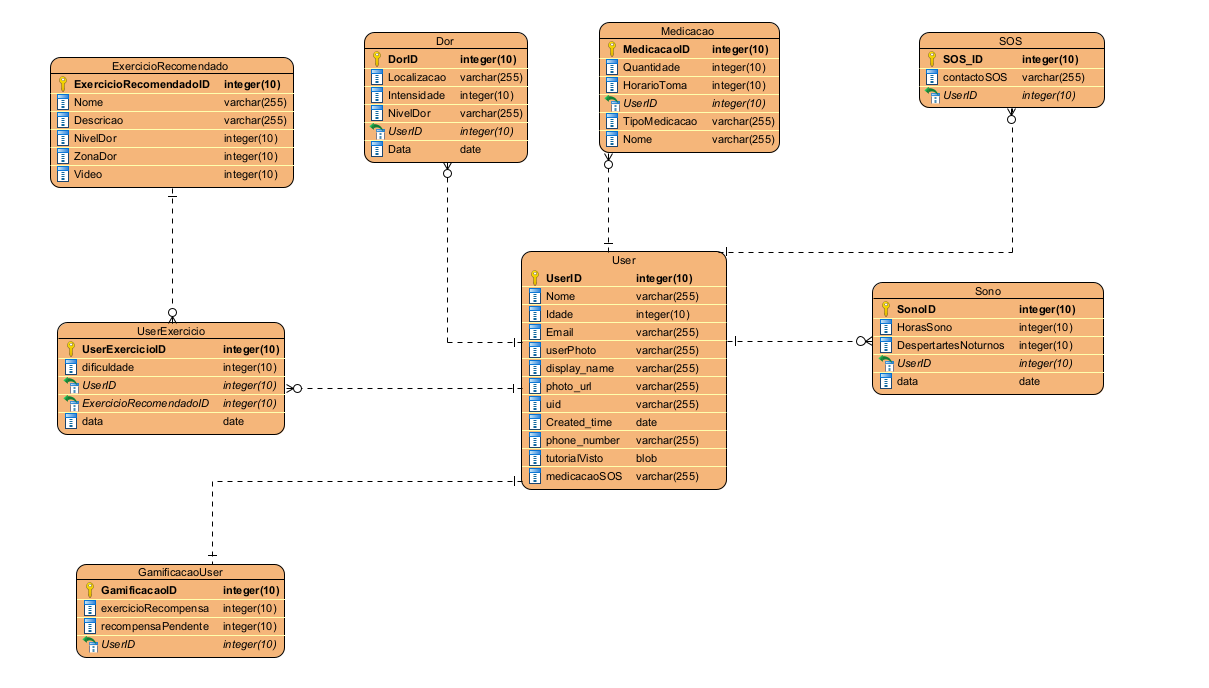
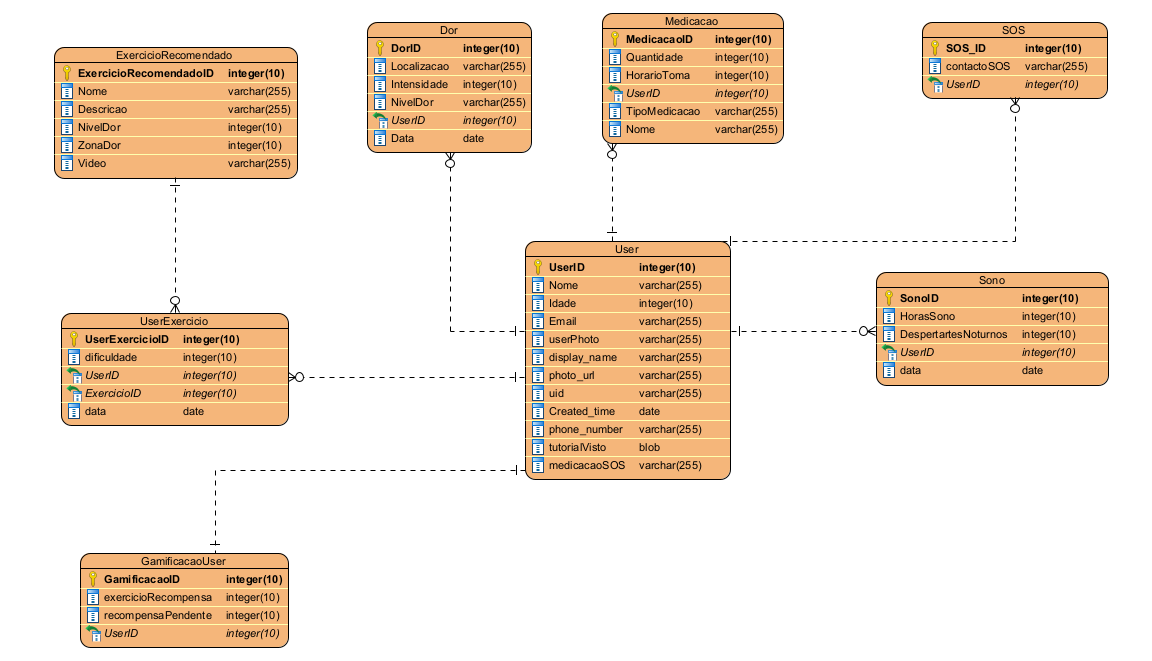
Fix some problems with cloud connection and UI problems

diff --git a/components/charts.py b/components/charts.py
@@ -21,11 +21,24 @@ def show_sono_chart(user_doc_ref):
 
     st.dataframe(sono_df, use_container_width=True)
 
-    fig = px.scatter(
+    if "Horas de Sono" not in sono_df.columns or "Despertares Noturnos" not in sono_df.columns:
+        st.info("Os campos necessários para gerar o gráfico de sono não existem nos dados.")
+        return
+
+    sono_df["Horas de Sono"] = pd.to_numeric(sono_df["Horas de Sono"], errors="coerce")
+    sono_df["Despertares Noturnos"] = pd.to_numeric(sono_df["Despertares Noturnos"], errors="coerce")
+
+    sono_df = sono_df.dropna(subset=["Horas de Sono", "Despertares Noturnos"])
+
+    if sono_df.empty:
+        st.info("Não existem valores numéricos suficientes para gerar o gráfico de sono.")
+        return
+
+    fig = px.line(
         sono_df,
         x="Horas de Sono",
         y="Despertares Noturnos",
-        size="Despertares Noturnos",
+        markers=True,
         title="Relação entre horas de sono e despertares noturnos"
     )
 
@@ -38,7 +51,8 @@ def show_sono_chart(user_doc_ref):
     )
 
     fig.update_traces(
-        marker=dict(color="#8E7CC3", size=12)
+        line=dict(color="#BFA2DB", width=4),
+        marker=dict(color="#8E7CC3", size=10)
     )
 
     st.plotly_chart(fig, use_container_width=True)
@@ -50,33 +64,10 @@ def show_exercicio_chart(user_doc_ref):
     exercicio_df = to_dataframe(get_user_exercicios_by_user(user_doc_ref))
 
     if exercicio_df.empty:
-        st.info("Este paciente ainda não tem exercícios associados.")
+        st.info("Este paciente ainda não tem exercícios concluídos.")
         return
 
     st.dataframe(exercicio_df, use_container_width=True)
-
-    if "Dificuldade" not in exercicio_df.columns or "Qualidade de Execução" not in exercicio_df.columns:
-        st.info("Ainda não existem dados suficientes para gerar o gráfico de exercício.")
-        return
-
-    fig = px.bar(
-        exercicio_df,
-        x="Dificuldade",
-        y="Qualidade de Execução",
-        title="Qualidade de execução por dificuldade"
-    )
-
-    fig.update_layout(
-        xaxis_title="Dificuldade",
-        yaxis_title="Qualidade de execução",
-        plot_bgcolor="white",
-        paper_bgcolor="white",
-        font=dict(color="#111827")
-    )
-
-    fig.update_traces(marker_color="#BFA2DB")
-
-    st.plotly_chart(fig, use_container_width=True)
 
 
 def show_dor_chart(user_doc_ref):
@@ -89,6 +80,17 @@ def show_dor_chart(user_doc_ref):
         return
 
     st.dataframe(dor_df, use_container_width=True)
+
+    if "Localização" not in dor_df.columns or "Intensidade" not in dor_df.columns:
+        st.info("Os campos necessários para gerar o gráfico de dor não existem nos dados.")
+        return
+
+    dor_df["Intensidade"] = pd.to_numeric(dor_df["Intensidade"], errors="coerce")
+    dor_df = dor_df.dropna(subset=["Intensidade"])
+
+    if dor_df.empty:
+        st.info("Não existem valores numéricos suficientes para gerar o gráfico de dor.")
+        return
 
     fig = px.bar(
         dor_df,
@@ -137,8 +139,14 @@ def show_sono_dor_relation(sono_df, dor_df):
 
     relation_df = pd.DataFrame(
         {
-            "Horas de Sono": pd.to_numeric(sono_df["Horas de Sono"].head(min_len), errors="coerce"),
-            "Intensidade da Dor": pd.to_numeric(dor_df["Intensidade"].head(min_len), errors="coerce"),
+            "Horas de Sono": pd.to_numeric(
+                sono_df["Horas de Sono"].head(min_len),
+                errors="coerce"
+            ),
+            "Intensidade da Dor": pd.to_numeric(
+                dor_df["Intensidade"].head(min_len),
+                errors="coerce"
+            ),
         }
     ).dropna()
 
@@ -146,10 +154,11 @@ def show_sono_dor_relation(sono_df, dor_df):
         st.info("Não existem valores numéricos suficientes para gerar o gráfico.")
         return
 
-    fig = px.scatter(
+    fig = px.line(
         relation_df,
         x="Horas de Sono",
         y="Intensidade da Dor",
+        markers=True,
         title="Relação entre horas de sono e intensidade da dor"
     )
 
@@ -161,6 +170,9 @@ def show_sono_dor_relation(sono_df, dor_df):
         font=dict(color="#111827")
     )
 
-    fig.update_traces(marker=dict(color="#8E7CC3", size=10))
+    fig.update_traces(
+        line=dict(color="#BFA2DB", width=4),
+        marker=dict(color="#8E7CC3", size=10)
+    )
 
     st.plotly_chart(fig, use_container_width=True)

diff --git a/styles.py b/styles.py
@@ -47,6 +47,53 @@ def apply_styles():
                 margin-bottom: 28px;
             }
 
+            /* -------------------- CARDS DOS INDICADORES -------------------- */
+
+            .metric-card {
+                background-color: #FFFFFF;
+                border: 1px solid #E5E7EB;
+                border-radius: 18px;
+                padding: 22px 24px;
+                box-shadow: 0 8px 22px rgba(0, 0, 0, 0.04);
+                min-height: 115px;
+                display: flex;
+                flex-direction: column;
+                justify-content: center;
+            }
+
+            .metric-card p {
+                color: #6B7280;
+                font-size: 15px;
+                font-weight: 600;
+                margin: 0 0 12px 0;
+            }
+
+            .metric-card h2 {
+                color: #111827;
+                font-size: 34px;
+                font-weight: 800;
+                margin: 0;
+                line-height: 1.1;
+            }
+
+            .alert-card-red {
+                border: 2px solid #EF4444 !important;
+            }
+
+            .alert-card-red h2 {
+                color: #DC2626 !important;
+            }
+
+            .alert-card-green {
+                border: 2px solid #22C55E !important;
+            }
+
+            .alert-card-green h2 {
+                color: #16A34A !important;
+            }
+
+            /* -------------------- PATIENT CARD -------------------- */
+
             .patient-card {
                 background-color: #FFFFFF;
                 border: 1px solid #E5E7EB;
@@ -104,6 +151,8 @@ def apply_styles():
                 text-decoration: underline;
             }
 
+            /* -------------------- STATUS CARD -------------------- */
+
             .status-card {
                 background-color: #FFFFFF;
                 border: 1px solid #E5E7EB;
@@ -140,6 +189,8 @@ def apply_styles():
                 font-weight: 800;
             }
 
+            /* -------------------- ST.METRIC NATIVO -------------------- */
+
             [data-testid="stMetric"] {
                 background-color: #FFFFFF;
                 border: 1px solid #E5E7EB;
@@ -158,12 +209,20 @@ def apply_styles():
                 font-weight: 800;
             }
 
+            /* -------------------- INPUTS / SELECTS -------------------- */
+
             div[data-baseweb="select"] > div {
                 background-color: #FFFFFF !important;
                 border: 1.5px solid #D1D5DB !important;
                 border-radius: 12px !important;
                 color: #111827 !important;
             }
+
+            input, textarea {
+                color: #111827 !important;
+            }
+
+            /* -------------------- BOTÕES -------------------- */
 
             div.stButton > button,
             div[data-testid="stDownloadButton"] > button {
@@ -180,6 +239,8 @@ def apply_styles():
                 color: white !important;
                 border: none;
             }
+
+            /* -------------------- ALERTAS / TABELAS -------------------- */
 
             [data-testid="stAlert"] {
                 border-radius: 14px;

diff --git a/app_pages/summary.py b/app_pages/summary.py
@@ -12,6 +12,18 @@ from utils.data_utils import (
 from components.layout import show_page_header
 
 
+def render_metric_card(title, value, extra_class=""):
+    st.markdown(
+        f"""
+        <div class="metric-card {extra_class}">
+            <p>{title}</p>
+            <h2>{value}</h2>
+        </div>
+        """,
+        unsafe_allow_html=True
+    )
+
+
 def show_general_summary(users):
     show_page_header(
         "Resumo Geral",
@@ -63,32 +75,40 @@ def show_general_summary(users):
     media_geral_dor = sum(dores) / len(dores) if dores else None
     media_geral_sono = sum(sonos) / len(sonos) if sonos else None
 
+    alerta_class = "alert-card-red" if total_alertas > 0 else "alert-card-green"
+
     col1, col2, col3, col4 = st.columns(4)
 
     with col1:
-        st.metric("Pacientes", total_pacientes)
+        render_metric_card("Pacientes", total_pacientes)
 
     with col2:
-        st.metric("Alertas ativos", total_alertas)
+        render_metric_card("Alertas ativos", total_alertas, alerta_class)
 
     with col3:
-        st.metric("Dor média geral", f"{media_geral_dor:.1f}/10" if media_geral_dor is not None else "Sem dados")
+        render_metric_card(
+            "Dor média geral",
+            f"{media_geral_dor:.1f}/10" if media_geral_dor is not None else "Sem dados"
+        )
 
     with col4:
-        st.metric("Sono médio geral", f"{media_geral_sono:.1f} h" if media_geral_sono is not None else "Sem dados")
+        render_metric_card(
+            "Sono médio geral",
+            f"{media_geral_sono:.1f} h" if media_geral_sono is not None else "Sem dados"
+        )
 
     st.divider()
 
     col5, col6, col7 = st.columns(3)
 
     with col5:
-        st.metric("Pacientes com dor elevada", pacientes_dor_alta)
+        render_metric_card("Pacientes com dor elevada", pacientes_dor_alta)
 
     with col6:
-        st.metric("Pacientes com sono baixo", pacientes_sono_baixo)
+        render_metric_card("Pacientes com sono baixo", pacientes_sono_baixo)
 
     with col7:
-        st.metric("Pacientes sem registos", pacientes_sem_registos)
+        render_metric_card("Pacientes sem registos", pacientes_sem_registos)
 
     st.divider()
 

diff --git a/utils/pdf_utils.py b/utils/pdf_utils.py
@@ -89,8 +89,6 @@ def generate_patient_pdf_report(
 
     nome = get_user_display_name(user)
     email = user.get(USER_EMAIL_FIELD, "N/A")
-    idade = user.get(USER_AGE_FIELD, "N/A")
-    user_id = user.get(USER_ID_FIELD, "N/A")
 
     sono_df, exercicio_df, dor_df, medicacao_df = get_patient_dataframes(user_doc_ref)
 
@@ -107,8 +105,6 @@ def generate_patient_pdf_report(
     patient_data = [
         ["Nome", nome],
         ["Email", email],
-        ["Idade", str(idade)],
-        ["ID do paciente", str(user_id)],
         ["Estado clínico", status],
         ["Motivo", reason],
         ["Data do relatório", data_relatorio],

diff --git a/components/patient_components.py b/components/patient_components.py
@@ -38,13 +38,6 @@ def show_user_info(user):
         unsafe_allow_html=True
     )
 
-    col1, col2 = st.columns(2)
-
-    with col1:
-        st.metric("ID do paciente", user.get(USER_ID_FIELD, "N/A"))
-
-    with col2:
-        st.metric("Idade", user.get(USER_AGE_FIELD, "N/A"))
 
 
 def show_patient_summary_cards(sono_df, exercicio_df, dor_df, medicacao_df):
